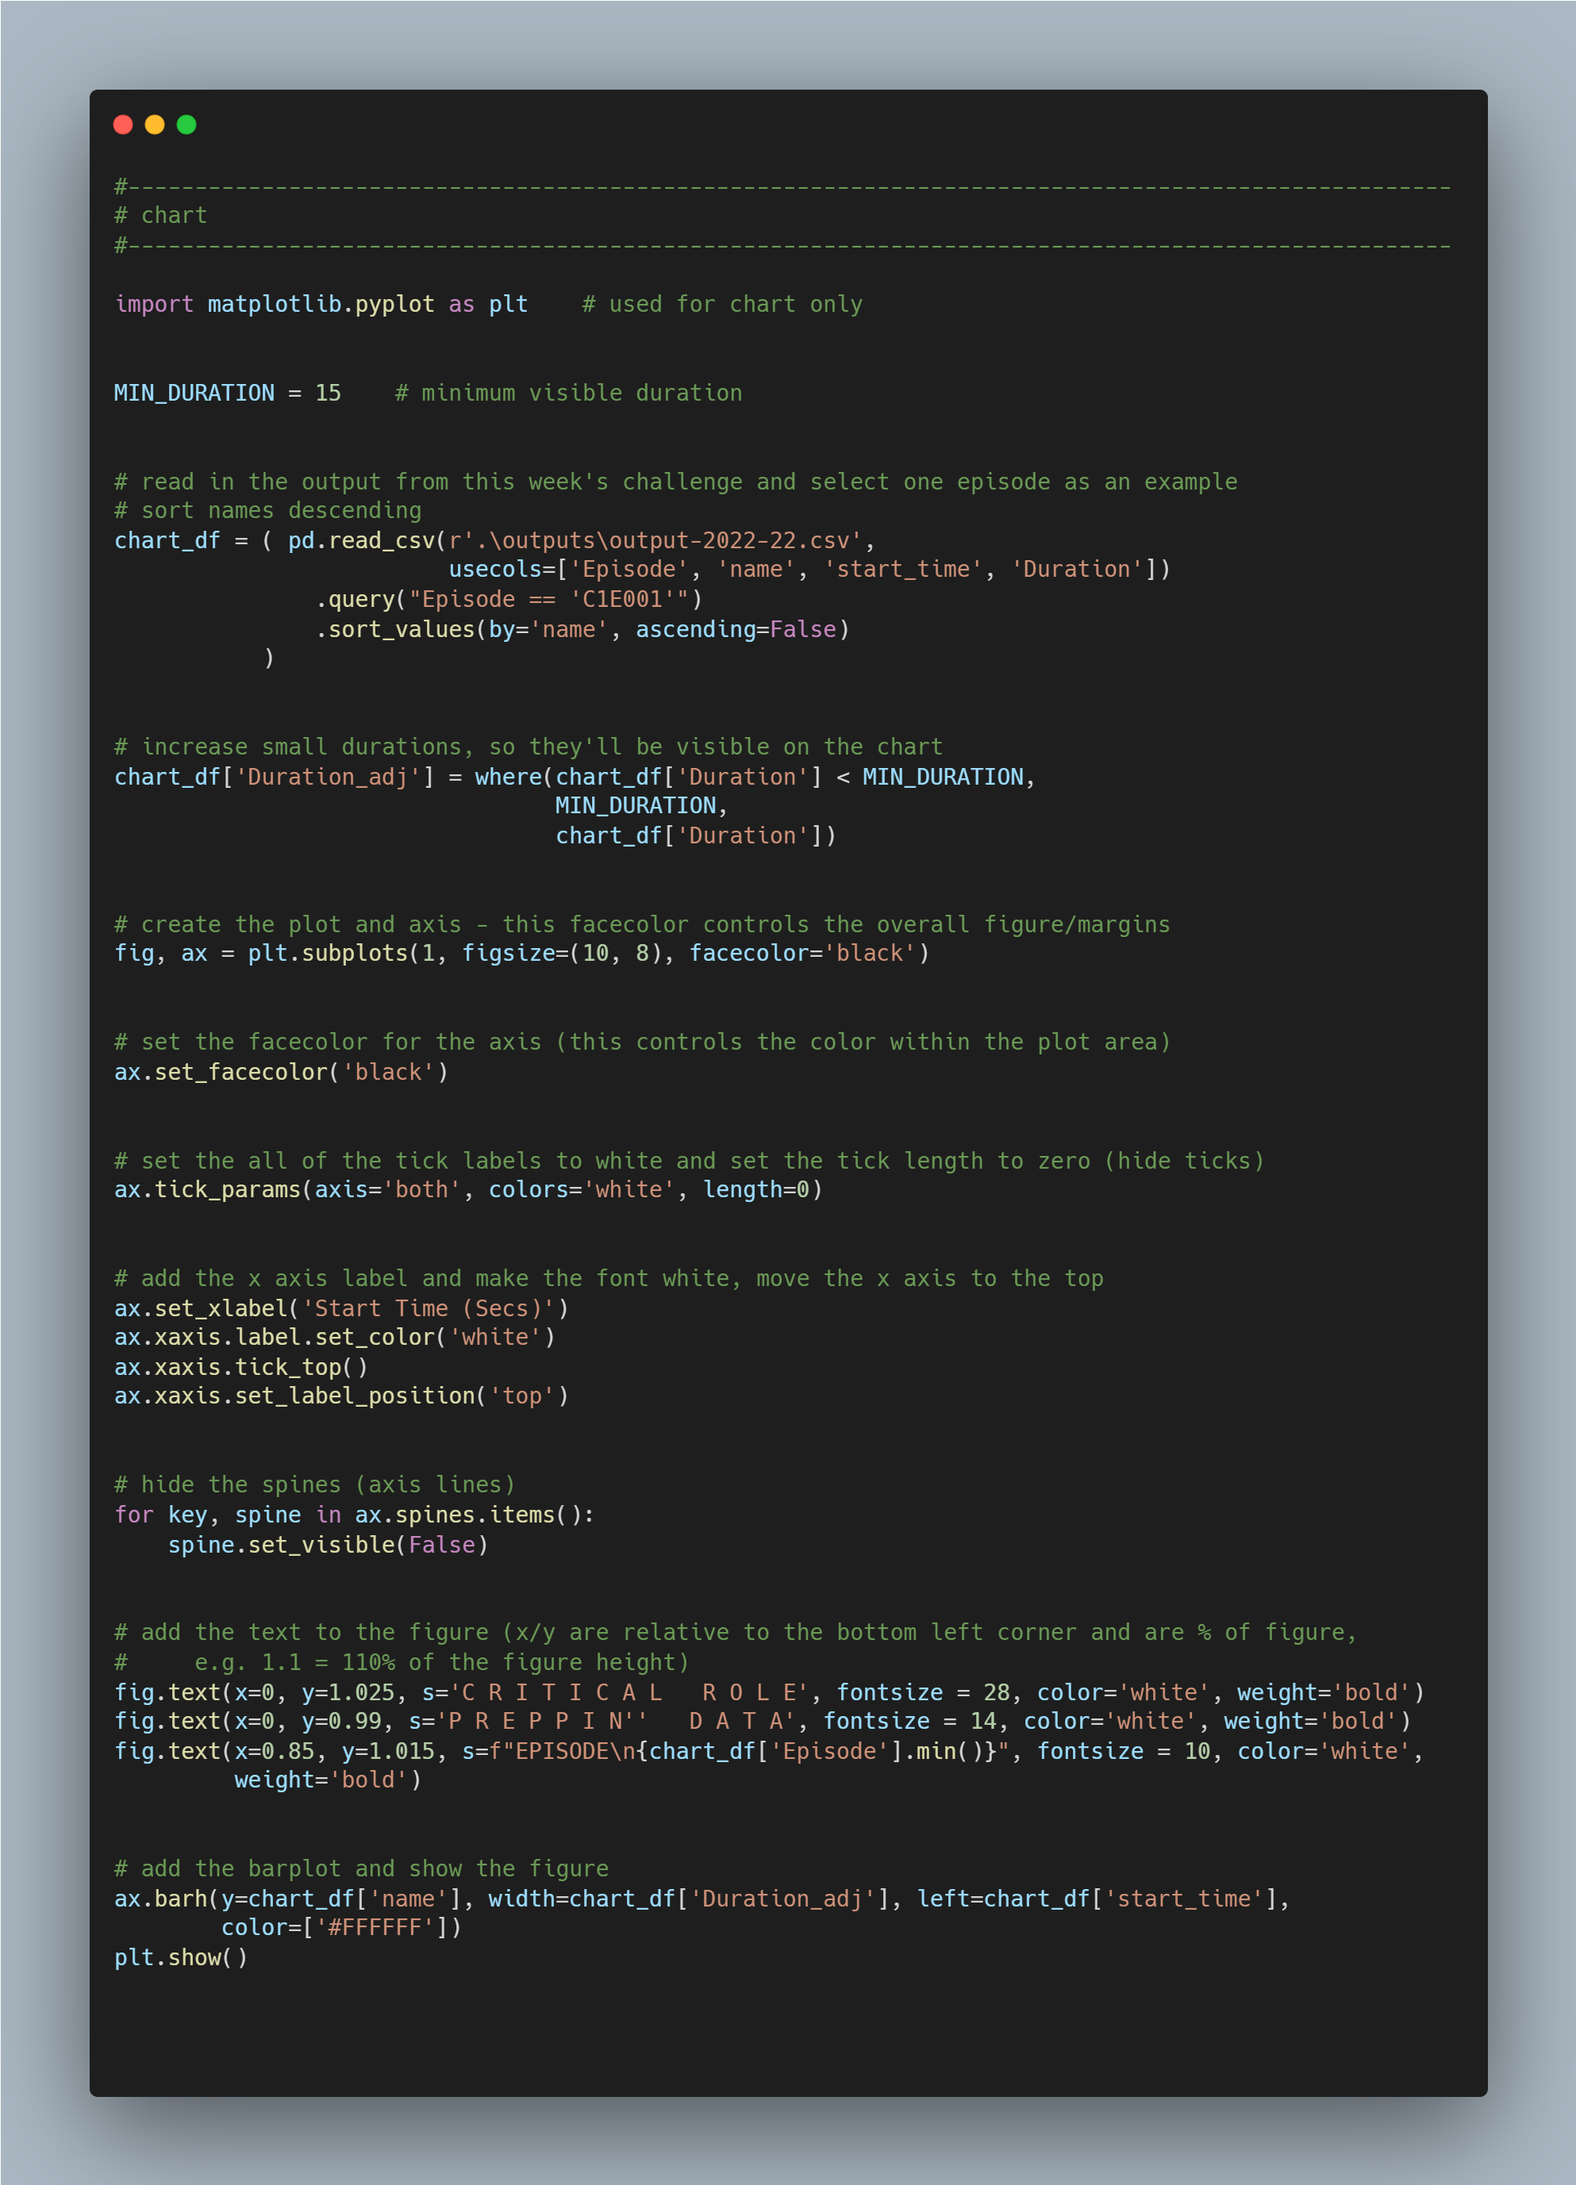
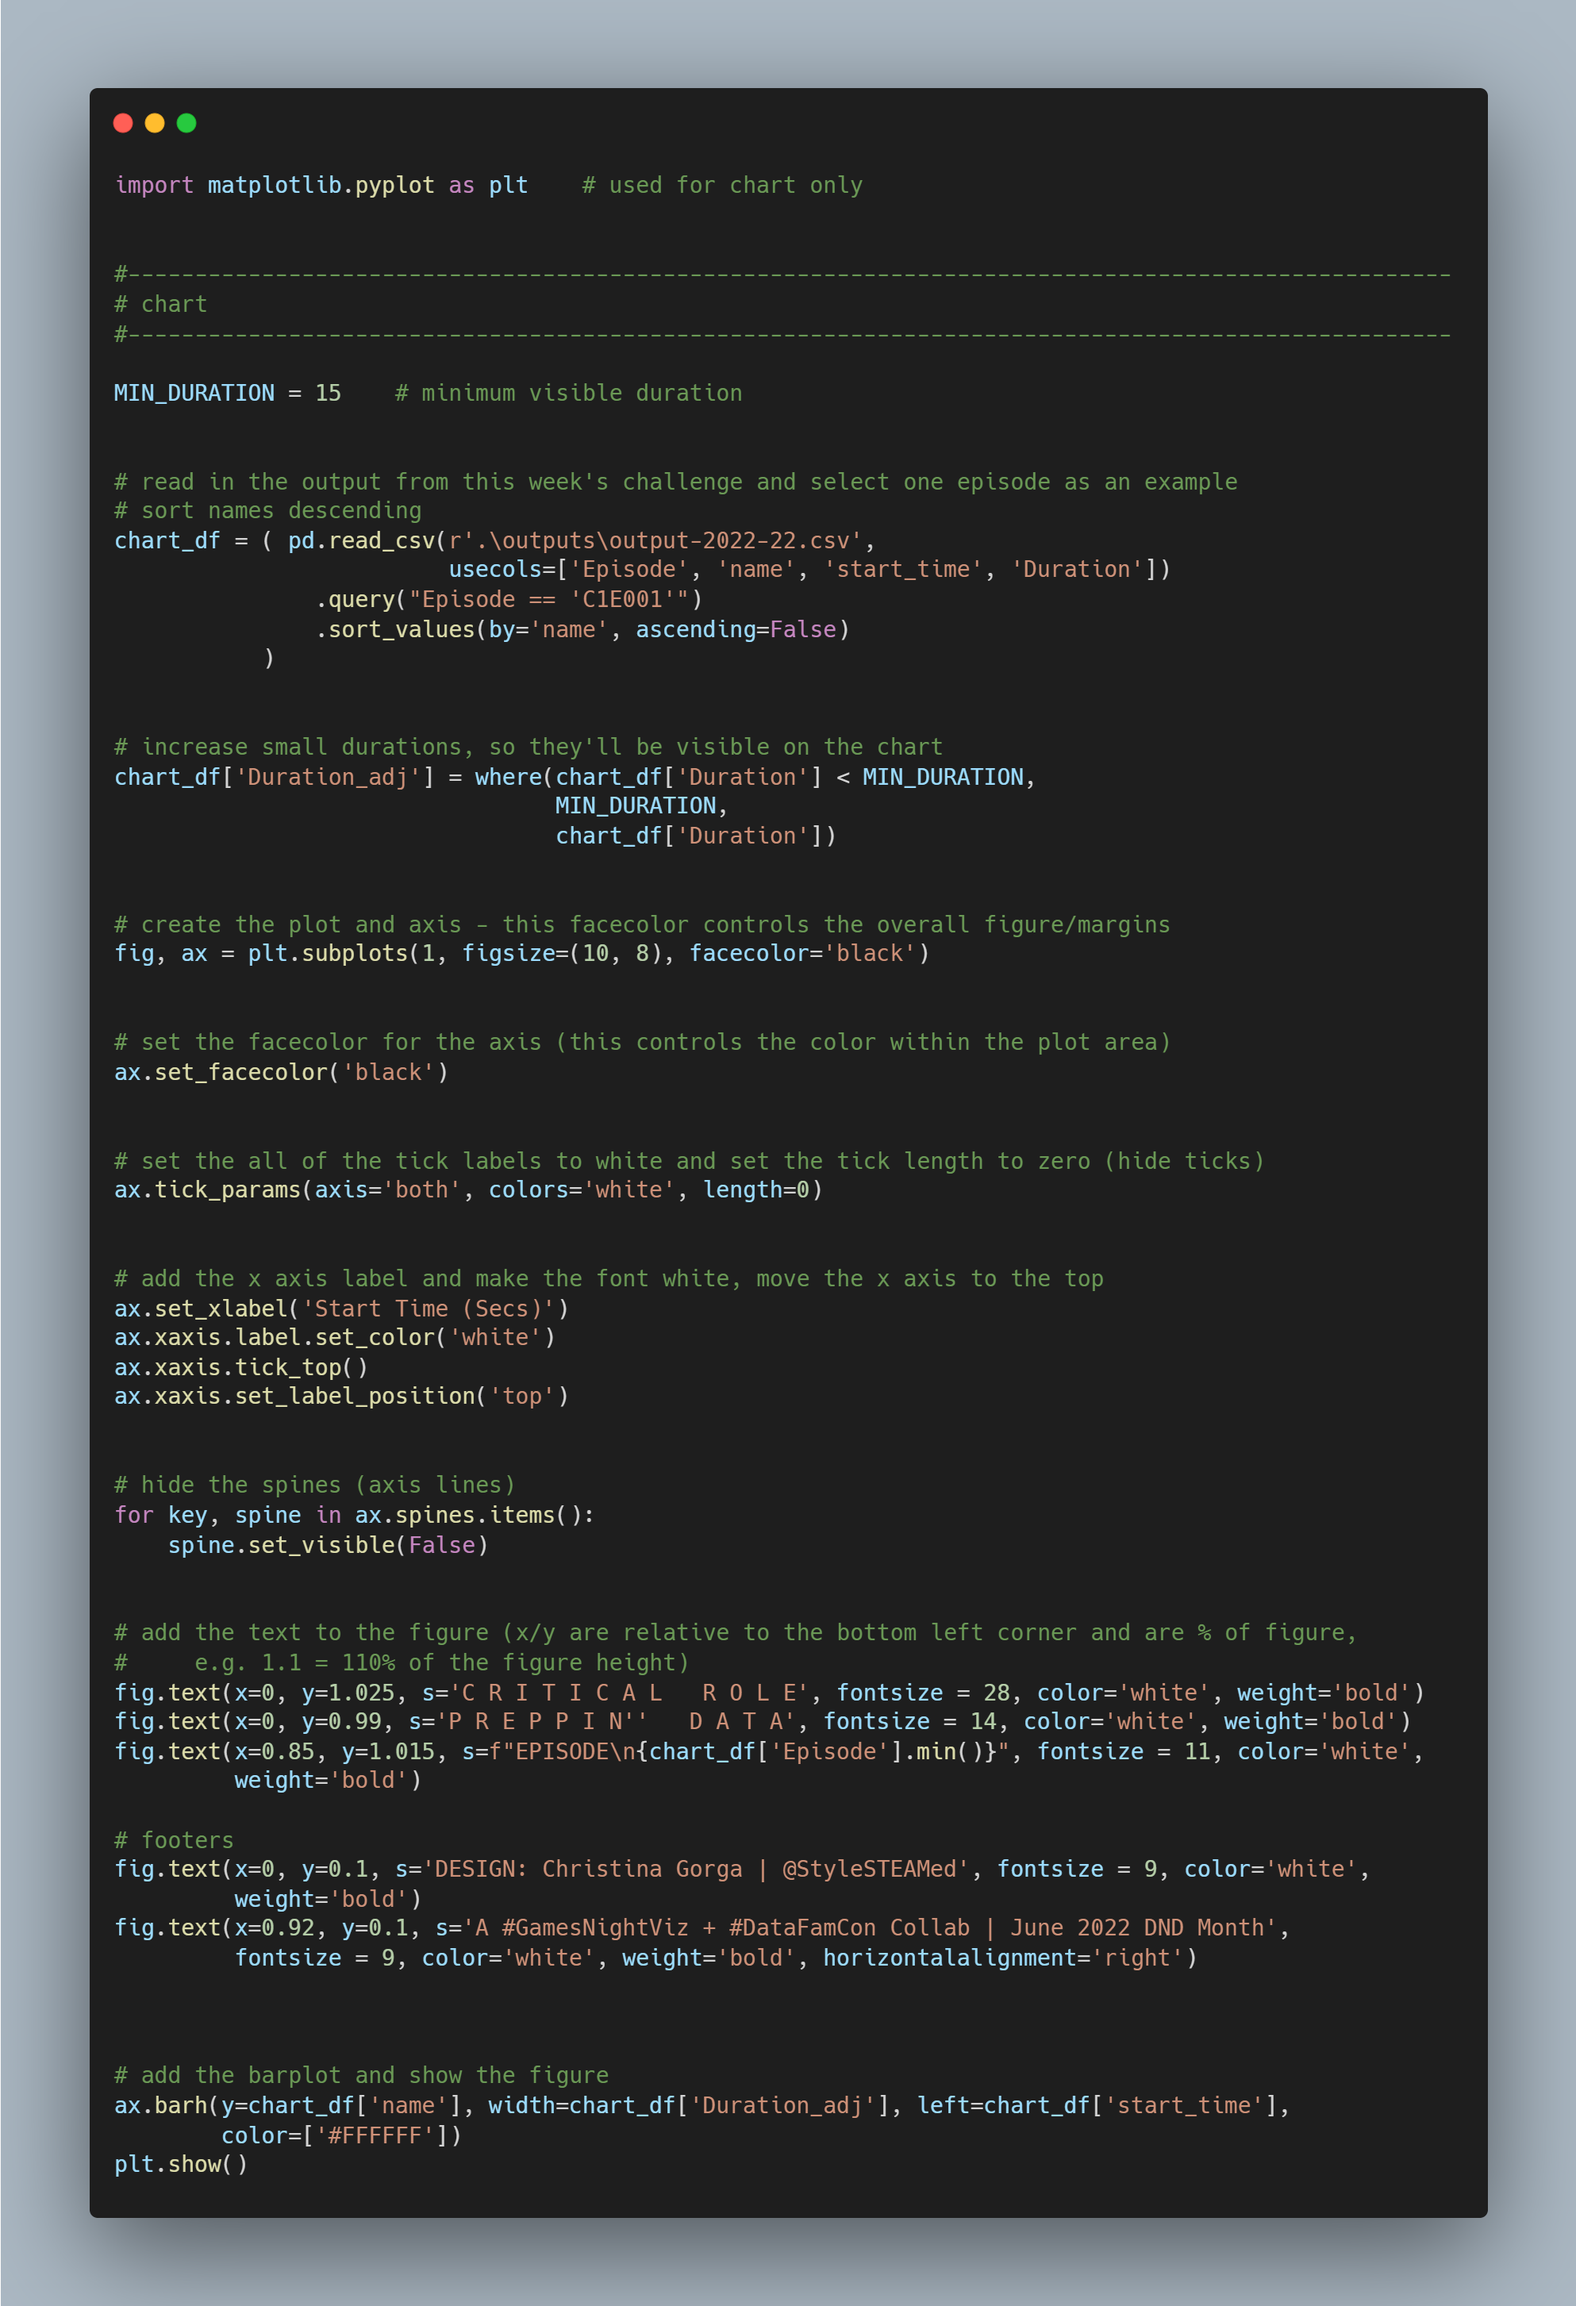
Added updated chart files for week 2022-22 (added footer)

diff --git a/2022/preppin-data-2022-22/preppin-data-2022-22.py b/2022/preppin-data-2022-22/preppin-data-2022-22.py
@@ -191,8 +191,15 @@ for key, spine in ax.spines.items():
 #     e.g. 1.1 = 110% of the figure height)
 fig.text(x=0, y=1.025, s='C R I T I C A L   R O L E', fontsize = 28, color='white', weight='bold')
 fig.text(x=0, y=0.99, s='P R E P P I N''   D A T A', fontsize = 14, color='white', weight='bold')
-fig.text(x=0.85, y=1.015, s=f"EPISODE\n{chart_df['Episode'].min()}", fontsize = 10, color='white', 
+fig.text(x=0.85, y=1.015, s=f"EPISODE\n{chart_df['Episode'].min()}", fontsize = 11, color='white', 
          weight='bold')
+
+# footers
+fig.text(x=0, y=0.1, s='DESIGN: Christina Gorga | @StyleSTEAMed', fontsize = 9, color='white', 
+         weight='bold')
+fig.text(x=0.92, y=0.1, s='A #GamesNightViz + #DataFamCon Collab | June 2022 DND Month', 
+         fontsize = 9, color='white', weight='bold', horizontalalignment='right')
+
 
 
 # add the barplot and show the figure
